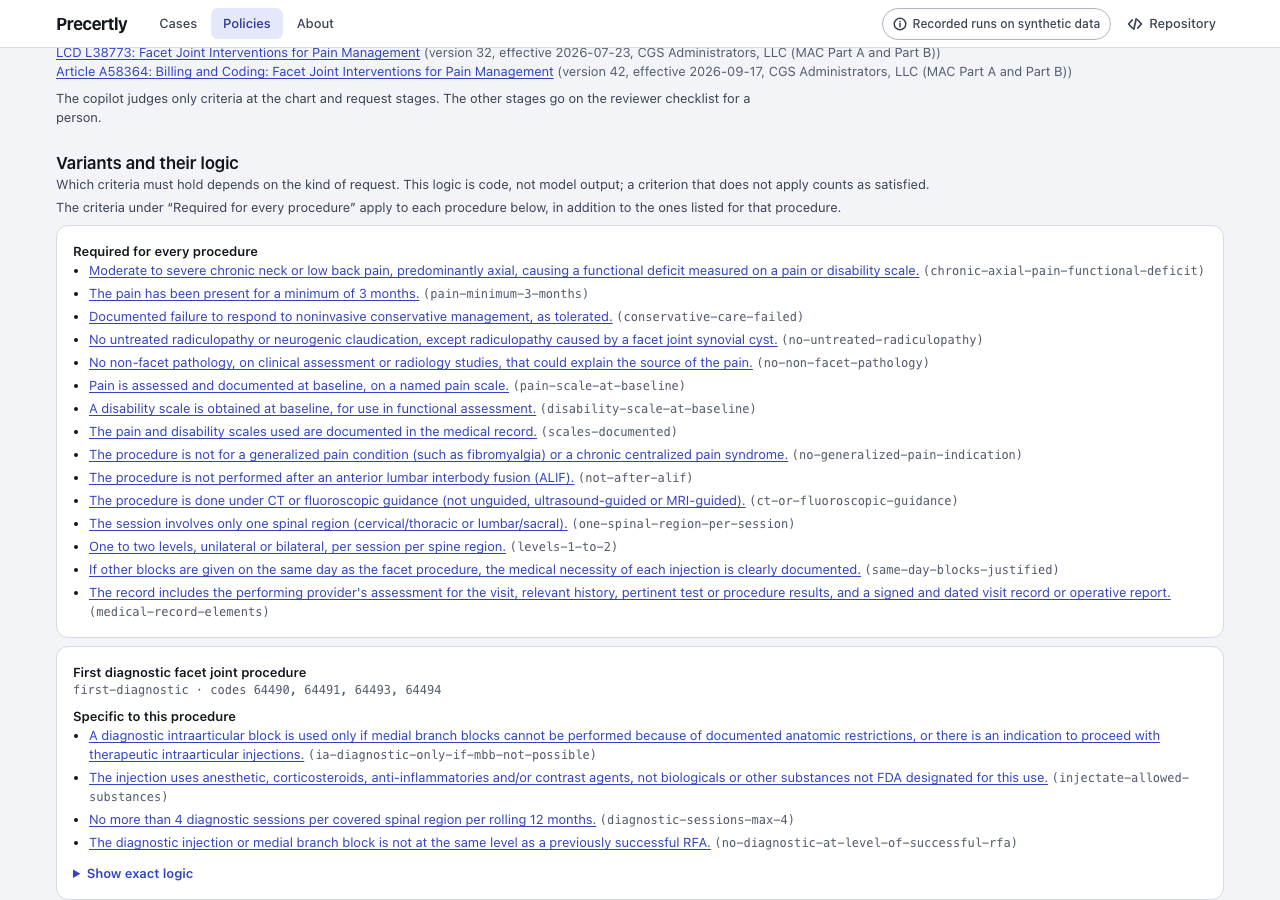
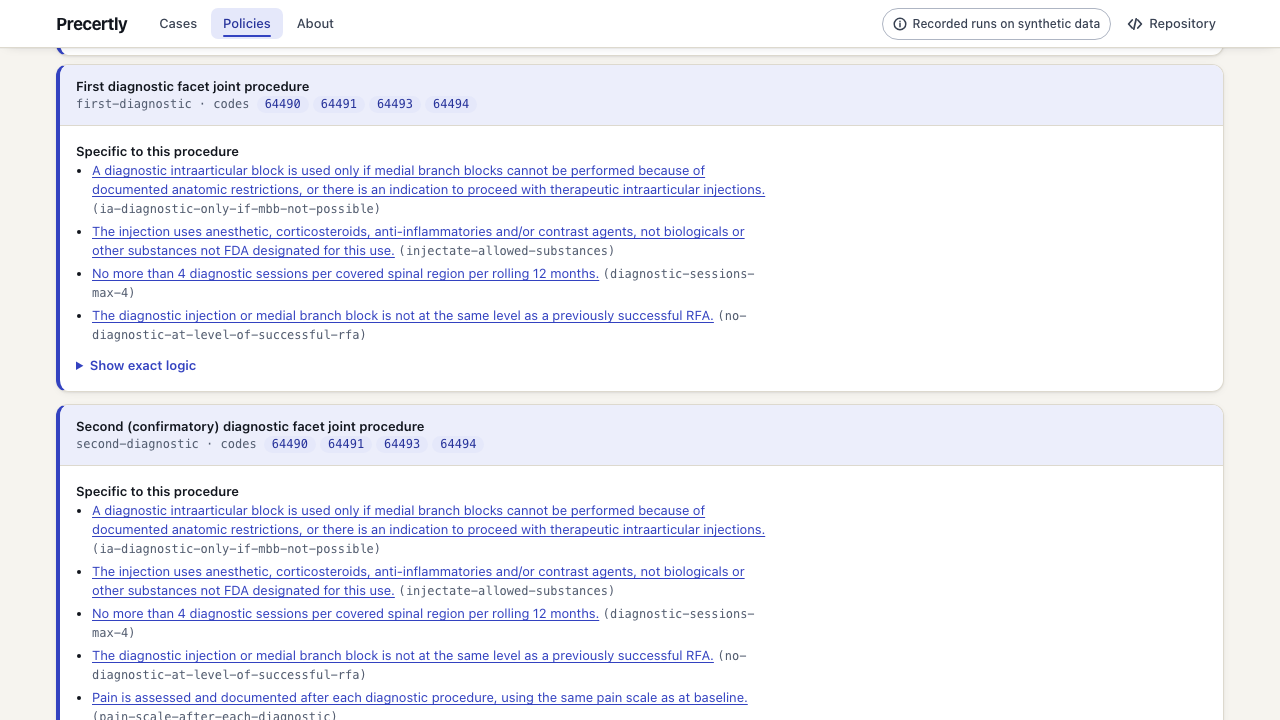
Give policy cards depth, a header row and code chips
Variant and shared-criteria cards get the card shadow, a left accent
stripe and a tinted header row; procedure codes become chips; the body
keeps a readable line length inside the full-width card. Each code
keeps its no-wrap span, and the commas between them stay for screen
readers.

Changed region(s): [[0.0312, 0.0, 0.9688, 1.0]]

diff --git a/web/src/screens/PolicyScreen.tsx b/web/src/screens/PolicyScreen.tsx
@@ -54,7 +54,7 @@ export function PolicyIndex() {
       </p>
       <ul className="mt-4 grid gap-2 md:grid-cols-2">
         {policies.map((p) => (
-          <li key={p.id} className="rounded-lg border border-line bg-surface p-4">
+          <li key={p.id} className="rounded-lg border border-line bg-surface p-4 shadow-card">
             <h2 className="font-semibold">
               <a className="text-accent underline underline-offset-2" href={href(["policies", p.id])}>
                 {p.title}
@@ -94,6 +94,12 @@ function CriterionLink({ id, policyId, criteria }: { id: string; policyId: strin
     </>
   );
 }
+
+// A policy card: full width, with a left accent stripe, a tinted header row and a body kept to a
+// readable line length (the criteria lines run long).
+const CARD = "overflow-hidden rounded-lg border border-l-4 border-line border-l-accent bg-surface text-sm shadow-card";
+const CARD_HEAD = "border-b border-line bg-band px-4 py-3";
+const CARD_BODY = "max-w-text p-4";
 
 type Shared = { policyId: string; criteria: Map<string, PolicyCriterion> };
 
@@ -135,7 +141,7 @@ function CriterionCard({ c, policy, selected }: { c: PolicyCriterion; policy: Po
     <li
       ref={ref}
       data-criterion={c.id}
-      className={`rounded-lg border bg-surface p-4 ${selected ? "border-2 border-accent" : "border-line"}`}
+      className={`rounded-lg border bg-surface p-4 shadow-card ${selected ? "border-2 border-accent" : "border-line"}`}
     >
       <h3 className="font-semibold">{c.text}</h3>
       <p className="font-mono text-xs wrap-anywhere text-ink-3">
@@ -245,9 +251,13 @@ export function PolicyScreen({ id, route }: { id: string; route: Route }) {
               The criteria under “Required for every procedure” apply to each procedure below, in addition to the
               ones listed for that procedure.
             </p>
-            <div data-testid="shared-criteria" className="mt-2 rounded-lg border border-line bg-surface p-4 text-sm">
-              <h3 className="font-semibold">Required for every procedure</h3>
-              <ItemList items={[...shared, ...groups]} policyId={policy.id} criteria={byId} />
+            <div data-testid="shared-criteria" className={`mt-2 ${CARD}`}>
+              <div className={CARD_HEAD}>
+                <h3 className="font-semibold">Required for every procedure</h3>
+              </div>
+              <div className={CARD_BODY}>
+                <ItemList items={[...shared, ...groups]} policyId={policy.id} criteria={byId} />
+              </div>
             </div>
           </>
         ) : null}
@@ -255,47 +265,49 @@ export function PolicyScreen({ id, route }: { id: string; route: Route }) {
           {policy.variants.map((v) => {
             const own = ownCriteria(v, shared, groups);
             return (
-              <div
-                key={v.id}
-                data-variant={v.id}
-                className="rounded-lg border border-line bg-surface p-4 text-sm"
-              >
-                <h3 className="font-semibold">{v.title}</h3>
-                <p className="font-mono text-xs wrap-anywhere text-ink-3">
-                  <BreakableId id={v.id} />
-                  {v.codes.length > 0 ? (
-                    <>
-                      {" · codes "}
-                      {v.codes.map((code, i) => (
-                        <Fragment key={code}>
-                          {i > 0 ? ", " : null}
-                          <span className="whitespace-nowrap">{code}</span>
-                        </Fragment>
-                      ))}
-                    </>
-                  ) : null}
-                </p>
-                <div className="mt-2" data-own-criteria>
-                  {hasShared ? <h4 className="font-semibold">Specific to this procedure</h4> : null}
-                  {own.length > 0 ? (
-                    <ItemList items={own} policyId={policy.id} criteria={byId} />
-                  ) : (
-                    <p className="text-ink-2">
-                      {hasShared ? "Nothing beyond the criteria required for every procedure." : "No criteria."}
-                    </p>
+              <div key={v.id} data-variant={v.id} className={CARD}>
+                <div className={CARD_HEAD}>
+                  <h3 className="font-semibold">{v.title}</h3>
+                  <p className="font-mono text-xs wrap-anywhere text-ink-3">
+                    <BreakableId id={v.id} />
+                    {v.codes.length > 0 ? (
+                      <>
+                        {" · codes "}
+                        {v.codes.map((code, i) => (
+                          <Fragment key={code}>
+                            {i > 0 ? <span className="sr-only">, </span> : null}
+                            <span className="mr-1 inline-block whitespace-nowrap rounded-full bg-chip px-2 text-accent-strong">
+                              {code}
+                            </span>
+                          </Fragment>
+                        ))}
+                      </>
+                    ) : null}
+                  </p>
+                </div>
+                <div className={CARD_BODY}>
+                  <div data-own-criteria>
+                    {hasShared ? <h4 className="font-semibold">Specific to this procedure</h4> : null}
+                    {own.length > 0 ? (
+                      <ItemList items={own} policyId={policy.id} criteria={byId} />
+                    ) : (
+                      <p className="text-ink-2">
+                        {hasShared ? "Nothing beyond the criteria required for every procedure." : "No criteria."}
+                      </p>
+                    )}
+                  </div>
+                  {listShowsExactLogic(v, hasShared) ? null : (
+                    <details className="mt-3">
+                      <summary className="cursor-pointer font-semibold text-accent">Show exact logic</summary>
+                      <div className="mt-2">
+                        <p className="mb-2 text-ink-2">
+                          As encoded in the policy file; the list above merges nested “All of” groups.
+                        </p>
+                        <LogicList logic={v.logic} policyId={policy.id} criteria={byId} />
+                      </div>
+                    </details>
                   )}
                 </div>
-                {listShowsExactLogic(v, hasShared) ? null : (
-                  <details className="mt-3">
-                    <summary className="cursor-pointer font-semibold text-accent">Show exact logic</summary>
-                    <div className="mt-2">
-                      <p className="mb-2 text-ink-2">
-                        As encoded in the policy file; the list above merges nested “All of” groups.
-                      </p>
-                      <LogicList logic={v.logic} policyId={policy.id} criteria={byId} />
-                    </div>
-                  </details>
-                )}
               </div>
             );
           })}
